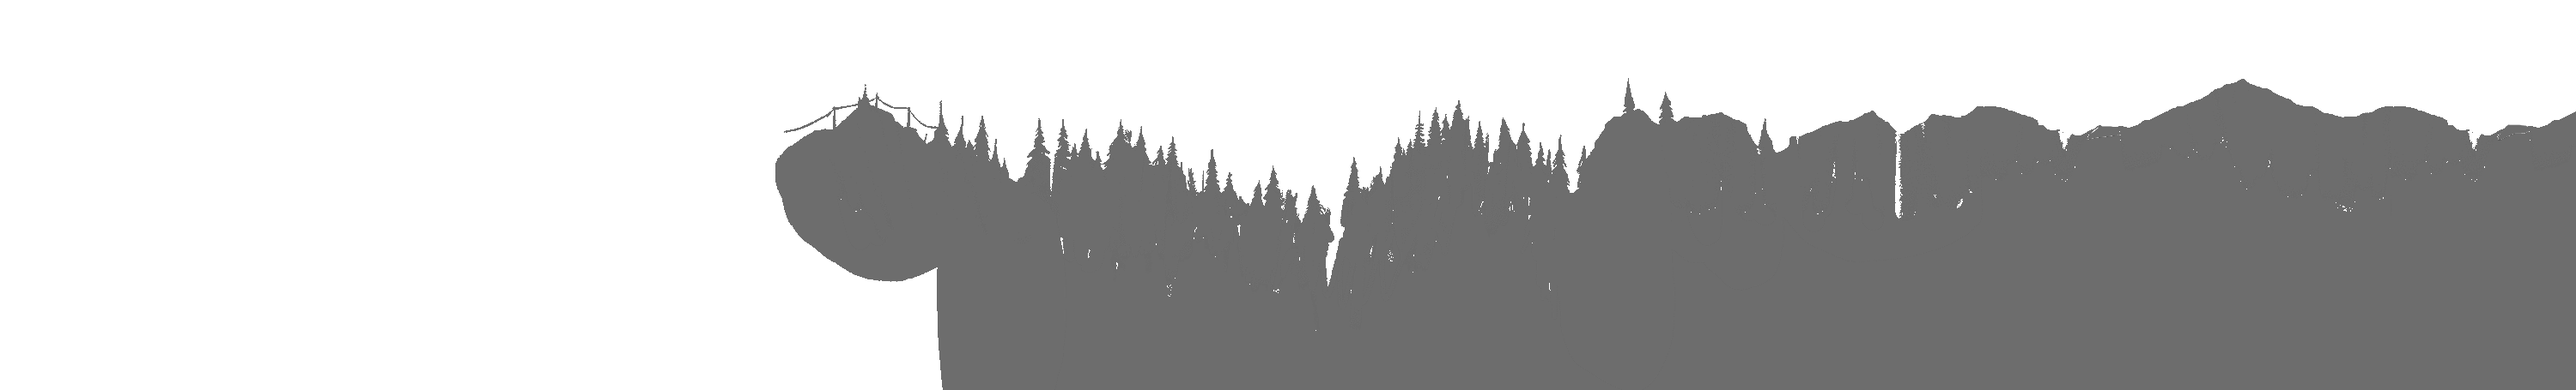
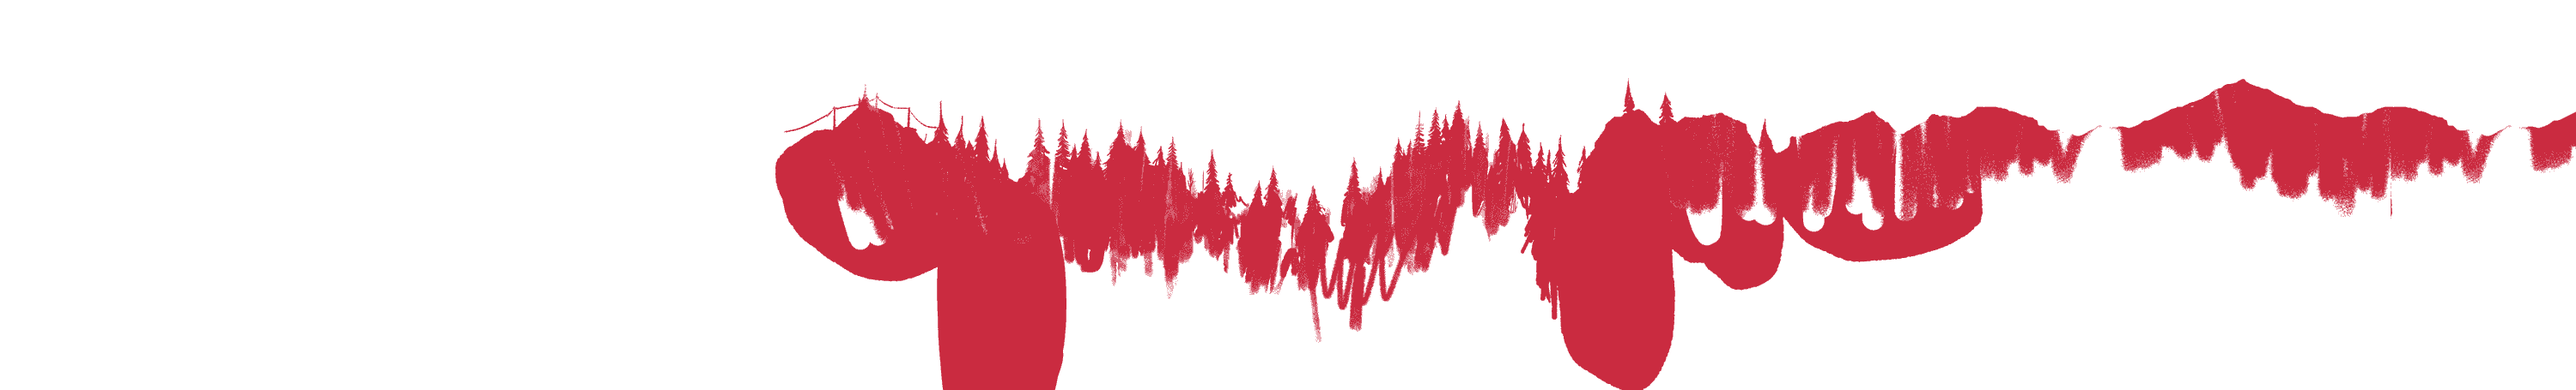
title

diff --git a/overrides/parallax.html b/overrides/parallax.html
@@ -13,6 +13,7 @@
     top: 2.4rem;
     position: absolute;
     background: transparent;
+	color: var(--md-primary-fg-color);
   }
 
   .placeholder {
@@ -24,19 +25,17 @@
     opacity: .5;
   }
 
-  .sink {
-    transform: translateY(-1.5em);
-  }
-
   .title {
     width: 100%;
     height: 225vh;
   }
 
   .title__container {
-    top: 61vh;
-    width: 100%;
+    top: 25vh;
+    max-width: 100%;
     height: auto;
+	margin-left: 12vw;
+	margin-right: 12vw;
     display: flex;
     flex-wrap: wrap;
     align-items: flex-start;
@@ -46,13 +45,13 @@
 
   .title__content {
     flex: 1;
+	font-size: 1.7em;
   }
 
   .title__combined {
-    height: auto;
-    width: 5.7em;
-    max-height: 100%;
-    max-width: calc(30% - 3em);
+	width: 10em;
+	height: 10em;
+	margin-top: 2em;
     margin-left: 1.1em;
     margin-right: 1.9em;
     object-fit: contain;
@@ -70,39 +69,37 @@
 {% block container %}
 <div class="parallax">
   <div class="parallax__placeholder" style="--parallax__multiplier: .12;">
-    <div class="parallax__layer" style="--parallax__layer-depth: 20;background: var(--md-primary-fg-color)">
-	</div>
-    <div class="parallax__layer colored" style="--parallax__layer-depth: 11;-webkit-mask-image: url('assets/parallax/firewatch/depth_6.png');--colored: var(--md-default-bg-color);-webkit-mask-position: bottom;">
+    <div class="parallax__layer"  style="--parallax__layer-depth: 11;">
       <img
         src="assets/parallax/firewatch/depth_6.png"
       />
     </div>
-    <div class="parallax__layer colored" style="--parallax__layer-depth: 7;-webkit-mask-image: url('assets/parallax/firewatch/depth_5.png');--colored: var(--md-default-bg-color);-webkit-mask-position: bottom;">
+    <div class="parallax__layer" style="--parallax__layer-depth: 7;">
       <img
         src="assets/parallax/firewatch/depth_5.png"
       />
     </div>
-    <div class="parallax__layer colored" style="--parallax__layer-depth: 5;-webkit-mask-image: url('assets/parallax/firewatch/depth_4.png');--colored: var(--md-default-bg-color);-webkit-mask-position: bottom;">
+    <div class="parallax__layer" style="--parallax__layer-depth: 5;">
       <img
         src="assets/parallax/firewatch/depth_4.png"
       />
     </div>
-    <div class="parallax__layer colored" style="--parallax__layer-depth: 3;-webkit-mask-image: url('assets/parallax/firewatch/depth_3.png');--colored: var(--md-default-bg-color);-webkit-mask-position: bottom;">
+    <div class="parallax__layer" style="--parallax__layer-depth: 3;">
       <img
         src="assets/parallax/firewatch/depth_3.png"
       />
     </div>
-    <div class="parallax__layer colored" style="--parallax__layer-depth: 2;-webkit-mask-image: url('assets/parallax/firewatch/depth_2.png');--colored: var(--md-default-bg-color);-webkit-mask-position: bottom;z-index: 4;">
+    <div class="parallax__layer" style="--parallax__layer-depth: 2;">
       <img
         src="assets/parallax/firewatch/depth_2.png"
       />
 	</div>
-    <div class="parallax__layer colored" style="--parallax__layer-depth: 1;-webkit-mask-image: url('assets/parallax/firewatch/depth_1.png');--colored: var(--md-default-bg-color);-webkit-mask-position: bottom;z-index: 5;">
+    <div class="parallax__layer" style="--parallax__layer-depth: 1;">
       <img
         src="assets/parallax/firewatch/depth_1.png"
       />
     </div>
-    <div class="parallax__layer colored" style="--parallax__layer-depth: 0;-webkit-mask-image: url('assets/parallax/firewatch/depth_0.png');--colored: var(--md-default-bg-color);-webkit-mask-position: bottom;z-index: 20;">
+    <div class="parallax__layer" style="--parallax__layer-depth: 0;z-index: 20;">
       <img
         src="assets/parallax/firewatch/depth_0.png"
       />
@@ -111,17 +108,17 @@
 		{% include "partials/tabs.html" %}
 		<section class="title">
 			<div class="title__container">
-			  <span class="title__combined colored" style="-webkit-mask-image: url('assets/images/logo.png');--colored: var(--md-default-bg-color--auto);">
+			  <span class="title__combined colored-icon" style="-webkit-mask-image: url('assets/images/logo.png');--colored: var(--md-primary-fg-color--auto);">
 				<img
 				  src="assets/images/logo.png"
 				  alt="Material Perfection"
 				 />
 			  </span>
-			  <div class="title__content" style="color: var(--md-default-bg-color);">
+			  <div class="title__content">
 				<h1>Material Perfection</h1>
-				<blockquote class="translucent sink">
+				<p class="translucent">
 				  An Out-of-the-Box Repository that Toggles <a href="https://github.com/squidfunk/mkdocs-material">Material for MkDocs</a> to the Perfection.
-				</blockquote>
+				</p>
 			  </div>
 			</div>
 		  </section>

diff --git a/docs/stylesheets/colors.css b/docs/stylesheets/colors.css
@@ -40,12 +40,13 @@
 
 /* Image color transformer */
 /* Credit: https://stackoverflow.com/a/76821538 */
-.colored {
+.colored-icon {
   background-color: var(--colored);
   -webkit-mask-size: 100%;
   -webkit-mask-repeat: no-repeat;
+  -webkit-mask-position: center;
 }
 
-.colored > img {
+.colored-icon > img {
   opacity: 0;
 }

diff --git a/docs/stylesheets/parallax.css b/docs/stylesheets/parallax.css
@@ -36,7 +36,7 @@
   pointer-events: none;
 }
 
-.parallax__layer img {
+.parallax__layer > img {
   display: block;
   position: absolute;
   bottom: 0;
